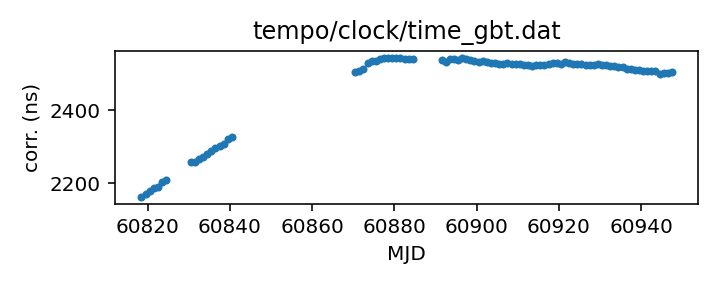
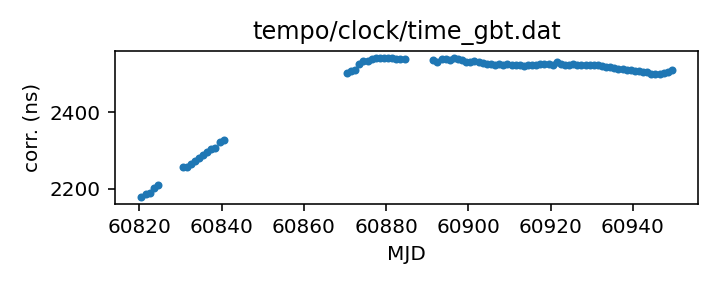
Routine gh-pages update from Github action Thu Oct  2 20:39:44 UTC 2025

diff --git a/status.md b/status.md
@@ -13,18 +13,18 @@ name of each clock file links to a page with more details.
 
 | Name | File | Corrections start | Corrections end | Last check date | Last check result 
 |:--- |:--- | --- | --- | --- |:--- 
-| [GPS to UTC](T2runtime/clock/gps2utc.clk.html) | `T2runtime/clock/gps2utc.clk` | 1993-01-01 MJD 48988.0 | 2025-08-27 MJD 60914.0 | 2025-10-01 | Unchanged 
-| [GPS to UTC (Combined Clock)](T2runtime/clock/gps2utc_cc.clk.html) | `T2runtime/clock/gps2utc_cc.clk` | 1993-01-01 MJD 48988.0 | 2025-08-27 MJD 60914.0 | 2025-10-01 | Unchanged 
-| [GPS to UTC (Corrected)](T2runtime/clock/gps2utc_c0p.clk.html) | `T2runtime/clock/gps2utc_c0p.clk` | 2010-12-29 MJD 55559.0 | 2025-08-27 MJD 60914.0 | 2025-10-01 | Unchanged 
-| [GBT](tempo/clock/time_gbt.dat.html) | `tempo/clock/time_gbt.dat` | 2000-12-31 MJD 51909.5 | 2025-09-29 MJD 60947.5 | 2025-10-01 | Updated 
-| [GBT (TEMPO2 converted from TEMPO)](T2runtime/clock/gbt2gps.clk.html) | `T2runtime/clock/gbt2gps.clk` | 2000-12-31 MJD 51909.5 | 2024-05-18 MJD 60448.5 | 2025-10-01 | **Validation failed** 
+| [GPS to UTC](T2runtime/clock/gps2utc.clk.html) | `T2runtime/clock/gps2utc.clk` | 1993-01-01 MJD 48988.0 | 2025-08-27 MJD 60914.0 | 2025-10-02 | Unchanged 
+| [GPS to UTC (Combined Clock)](T2runtime/clock/gps2utc_cc.clk.html) | `T2runtime/clock/gps2utc_cc.clk` | 1993-01-01 MJD 48988.0 | 2025-08-27 MJD 60914.0 | 2025-10-02 | Unchanged 
+| [GPS to UTC (Corrected)](T2runtime/clock/gps2utc_c0p.clk.html) | `T2runtime/clock/gps2utc_c0p.clk` | 2010-12-29 MJD 55559.0 | 2025-08-27 MJD 60914.0 | 2025-10-02 | Unchanged 
+| [GBT](tempo/clock/time_gbt.dat.html) | `tempo/clock/time_gbt.dat` | 2000-12-31 MJD 51909.5 | 2025-10-01 MJD 60949.5 | 2025-10-02 | Updated 
+| [GBT (TEMPO2 converted from TEMPO)](T2runtime/clock/gbt2gps.clk.html) | `T2runtime/clock/gbt2gps.clk` | 2000-12-31 MJD 51909.5 | 2024-05-18 MJD 60448.5 | 2025-10-02 | **Validation failed** 
 | [Jodrell Bank](T2runtime/clock/jb2gps.clk.html) | `T2runtime/clock/jb2gps.clk` | 2006-10-13 MJD 54021.4 | 2024-11-07 MJD 60621.0 | 2025-09-29 | Unchanged 
 | [Jodrell Bank Roach](T2runtime/clock/jbroach2jb.clk.html) | `T2runtime/clock/jbroach2jb.clk` | 2006-10-13 MJD 54021.4 | 2018-03-20 MJD 58197.6 | 2025-09-29 | Unchanged 
 | [Jodrell Bank DFB](T2runtime/clock/jbdfb2jb.clk.html) | `T2runtime/clock/jbdfb2jb.clk` | 2006-10-13 MJD 54021.4 | 2021-02-22 MJD 59268.0 | 2025-09-29 | Unchanged 
 | [Meerkat (observatory)](T2runtime/clock/mk2utc_observatory.clk.html) | `T2runtime/clock/mk2utc_observatory.clk` | 2019-01-01 MJD 58484.0 | 2025-08-29 MJD 60917.0 | 2025-09-29 | **Validation failed** 
-| [Leap seconds](tempo/clock/leap.sec.html) | `tempo/clock/leap.sec` | 1972-07-01 MJD 41499.0 | 2017-01-01 MJD 57754.0 | 2025-10-01 | Unchanged 
-| [UT1 table](tempo/clock/ut1.dat.html) | `tempo/clock/ut1.dat` | 1973-01-02 MJD 41684.0 | 2026-10-03 MJD 61316.0 | 2025-10-01 | Unchanged 
-| [UT1 table](T2runtime/clock/ut1.dat.html) | `T2runtime/clock/ut1.dat` | 1973-01-02 MJD 41684.0 | 2026-10-03 MJD 61316.0 | 2025-10-01 | Unchanged 
+| [Leap seconds](tempo/clock/leap.sec.html) | `tempo/clock/leap.sec` | 1972-07-01 MJD 41499.0 | 2017-01-01 MJD 57754.0 | 2025-10-02 | Unchanged 
+| [UT1 table](tempo/clock/ut1.dat.html) | `tempo/clock/ut1.dat` | 1973-01-02 MJD 41684.0 | 2026-10-10 MJD 61323.0 | 2025-10-02 | Updated 
+| [UT1 table](T2runtime/clock/ut1.dat.html) | `T2runtime/clock/ut1.dat` | 1973-01-02 MJD 41684.0 | 2026-10-10 MJD 61323.0 | 2025-10-02 | Updated 
 
 
 

diff --git a/T2runtime/clock/gbt2gps.clk.md b/T2runtime/clock/gbt2gps.clk.md
@@ -25,12 +25,11 @@ If questions arise about the conversion, contact Anne Archibald
 | Clock file start | 2000-12-31 MJD 51909.5 |
 | Clock file end | 2024-05-18 MJD 60448.5 |
 | Update interval (days) | 1 |
-| Last update attempt | 2025-10-01 |
+| Last update attempt | 2025-10-02 |
 | Last update result | Validation failed |
 
 Log entries from the last few update attempts:
 ```
-2025-09-22 20:39:59.689 - Validation failed: New version of T2runtime/clock/gbt2gps.clk MJDs differ from old version where they overlap in 8407 places
 2025-09-23 20:40:04.250 - Validation failed: New version of T2runtime/clock/gbt2gps.clk MJDs differ from old version where they overlap in 8407 places
 2025-09-24 20:38:48.026 - Validation failed: New version of T2runtime/clock/gbt2gps.clk MJDs differ from old version where they overlap in 8407 places
 2025-09-25 20:39:39.724 - Validation failed: New version of T2runtime/clock/gbt2gps.clk MJDs differ from old version where they overlap in 8407 places
@@ -40,6 +39,7 @@ Log entries from the last few update attempts:
 2025-09-29 20:37:14.017 - Validation failed: New version of T2runtime/clock/gbt2gps.clk MJDs differ from old version where they overlap in 8407 places
 2025-09-30 20:39:39.071 - Validation failed: New version of T2runtime/clock/gbt2gps.clk MJDs differ from old version where they overlap in 8407 places
 2025-10-01 20:39:45.996 - Validation failed: New version of T2runtime/clock/gbt2gps.clk MJDs differ from old version where they overlap in 8407 places
+2025-10-02 20:39:19.622 - Validation failed: New version of T2runtime/clock/gbt2gps.clk MJDs differ from old version where they overlap in 8407 places
 ```
 [Full log](https://raw.githubusercontent.com/ipta/pulsar-clock-corrections/main/log/T2runtime/clock/gbt2gps.clk.log)
 

diff --git a/tempo/clock/time_gbt.dat.md b/tempo/clock/time_gbt.dat.md
@@ -36,14 +36,13 @@ If questions arise, contact Ryan S. Lynch <rlynch@nrao.edu>.
 | Format | tempo |
 | Bogus last correction | False |
 | Clock file start | 2000-12-31 MJD 51909.5 |
-| Clock file end | 2025-09-29 MJD 60947.5 |
+| Clock file end | 2025-10-01 MJD 60949.5 |
 | Update interval (days) | 1 |
-| Last update attempt | 2025-10-01 |
+| Last update attempt | 2025-10-02 |
 | Last update result | Updated |
 
 Log entries from the last few update attempts:
 ```
-2025-09-22 20:39:59.174 - Updated
 2025-09-23 20:40:04.186 - Updated
 2025-09-24 20:38:47.962 - Updated
 2025-09-25 20:39:39.662 - Updated
@@ -53,12 +52,13 @@ Log entries from the last few update attempts:
 2025-09-29 20:37:13.755 - Updated
 2025-09-30 20:39:39.009 - Updated
 2025-10-01 20:39:45.933 - Updated
+2025-10-02 20:39:19.559 - Updated
 ```
 [Full log](https://raw.githubusercontent.com/ipta/pulsar-clock-corrections/main/log/tempo/clock/time_gbt.dat.log)
 
 Leading comments from clock file:
 
-     -2271.50       0.0        -0.486 1    32766-dec
+     -2271.50       0.0        -0.486 1    32767-dec
 
 
 

diff --git a/T2runtime/clock/ut1.dat.md b/T2runtime/clock/ut1.dat.md
@@ -28,14 +28,13 @@ If there are any questions, contact Anne Archibald
 | File | `T2runtime/clock/ut1.dat` |
 | Authority | observatory |
 | File start | 1973-01-02 MJD 41684.0 |
-| File end | 2026-10-03 MJD 61316.0 |
+| File end | 2026-10-10 MJD 61323.0 |
 | Update interval (days) | 0 |
-| Last update attempt | 2025-10-01 |
-| Last update result | Unchanged |
+| Last update attempt | 2025-10-02 |
+| Last update result | Updated |
 
 Log entries from the last few update attempts:
 ```
-2025-09-22 20:40:34.777 - Unchanged
 2025-09-23 20:40:13.488 - Unchanged
 2025-09-24 20:39:01.622 - Unchanged
 2025-09-25 20:39:48.753 - Updated
@@ -45,5 +44,6 @@ Log entries from the last few update attempts:
 2025-09-29 20:37:32.669 - Unchanged
 2025-09-30 20:39:51.352 - Unchanged
 2025-10-01 20:39:54.471 - Unchanged
+2025-10-02 20:39:27.937 - Updated
 ```
 [Full log](https://raw.githubusercontent.com/ipta/pulsar-clock-corrections/main/log/T2runtime/clock/ut1.dat.log)

diff --git a/tempo/clock/ut1.dat.md b/tempo/clock/ut1.dat.md
@@ -28,14 +28,13 @@ If there are any questions, contact Anne Archibald
 | File | `tempo/clock/ut1.dat` |
 | Authority | observatory |
 | File start | 1973-01-02 MJD 41684.0 |
-| File end | 2026-10-03 MJD 61316.0 |
+| File end | 2026-10-10 MJD 61323.0 |
 | Update interval (days) | 0 |
-| Last update attempt | 2025-10-01 |
-| Last update result | Unchanged |
+| Last update attempt | 2025-10-02 |
+| Last update result | Updated |
 
 Log entries from the last few update attempts:
 ```
-2025-09-22 20:40:34.728 - Unchanged
 2025-09-23 20:40:13.437 - Unchanged
 2025-09-24 20:39:01.573 - Unchanged
 2025-09-25 20:39:48.703 - Updated
@@ -45,5 +44,6 @@ Log entries from the last few update attempts:
 2025-09-29 20:37:32.619 - Unchanged
 2025-09-30 20:39:51.303 - Unchanged
 2025-10-01 20:39:54.422 - Unchanged
+2025-10-02 20:39:27.887 - Updated
 ```
 [Full log](https://raw.githubusercontent.com/ipta/pulsar-clock-corrections/main/log/tempo/clock/ut1.dat.log)

diff --git a/T2runtime/clock/gps2utc_c0p.clk.md b/T2runtime/clock/gps2utc_c0p.clk.md
@@ -30,12 +30,11 @@ about the BIPM's published corrections, contact <tai@bipm.org>.
 | Clock file start | 2010-12-29 MJD 55559.0 |
 | Clock file end | 2025-08-27 MJD 60914.0 |
 | Update interval (days) | 1 |
-| Last update attempt | 2025-10-01 |
+| Last update attempt | 2025-10-02 |
 | Last update result | Unchanged |
 
 Log entries from the last few update attempts:
 ```
-2025-09-22 20:39:58.154 - Unchanged
 2025-09-23 20:40:03.712 - Unchanged
 2025-09-24 20:38:47.064 - Unchanged
 2025-09-25 20:39:39.185 - Unchanged
@@ -45,6 +44,7 @@ Log entries from the last few update attempts:
 2025-09-29 20:37:13.525 - Unchanged
 2025-09-30 20:39:38.239 - Unchanged
 2025-10-01 20:39:45.575 - Unchanged
+2025-10-02 20:39:19.164 - Unchanged
 ```
 [Full log](https://raw.githubusercontent.com/ipta/pulsar-clock-corrections/main/log/T2runtime/clock/gps2utc_c0p.clk.log)
 

diff --git a/T2runtime/clock/gps2utc_cc.clk.md b/T2runtime/clock/gps2utc_cc.clk.md
@@ -29,12 +29,11 @@ about the BIPM's published corrections, contact <tai@bipm.org>.
 | Clock file start | 1993-01-01 MJD 48988.0 |
 | Clock file end | 2025-08-27 MJD 60914.0 |
 | Update interval (days) | 1 |
-| Last update attempt | 2025-10-01 |
+| Last update attempt | 2025-10-02 |
 | Last update result | Unchanged |
 
 Log entries from the last few update attempts:
 ```
-2025-09-22 20:39:58.146 - Unchanged
 2025-09-23 20:40:03.704 - Unchanged
 2025-09-24 20:38:47.056 - Unchanged
 2025-09-25 20:39:39.177 - Unchanged
@@ -44,6 +43,7 @@ Log entries from the last few update attempts:
 2025-09-29 20:37:13.517 - Unchanged
 2025-09-30 20:39:38.231 - Unchanged
 2025-10-01 20:39:45.568 - Unchanged
+2025-10-02 20:39:19.155 - Unchanged
 ```
 [Full log](https://raw.githubusercontent.com/ipta/pulsar-clock-corrections/main/log/T2runtime/clock/gps2utc_cc.clk.log)
 

diff --git a/T2runtime/clock/gps2utc.clk.md b/T2runtime/clock/gps2utc.clk.md
@@ -32,12 +32,11 @@ about the BIPM's published corrections, contact <tai@bipm.org>.
 | Clock file start | 1993-01-01 MJD 48988.0 |
 | Clock file end | 2025-08-27 MJD 60914.0 |
 | Update interval (days) | 1 |
-| Last update attempt | 2025-10-01 |
+| Last update attempt | 2025-10-02 |
 | Last update result | Unchanged |
 
 Log entries from the last few update attempts:
 ```
-2025-09-22 20:39:58.124 - Unchanged
 2025-09-23 20:40:03.682 - Unchanged
 2025-09-24 20:38:47.034 - Unchanged
 2025-09-25 20:39:39.155 - Unchanged
@@ -47,6 +46,7 @@ Log entries from the last few update attempts:
 2025-09-29 20:37:13.495 - Unchanged
 2025-09-30 20:39:38.208 - Unchanged
 2025-10-01 20:39:45.546 - Unchanged
+2025-10-02 20:39:19.133 - Unchanged
 ```
 [Full log](https://raw.githubusercontent.com/ipta/pulsar-clock-corrections/main/log/T2runtime/clock/gps2utc.clk.log)
 

diff --git a/tempo/clock/leap.sec.md b/tempo/clock/leap.sec.md
@@ -21,12 +21,11 @@ If there are any questions, contact Anne Archibald
 | File start | 1972-07-01 MJD 41499.0 |
 | File end | 2017-01-01 MJD 57754.0 |
 | Update interval (days) | 0 |
-| Last update attempt | 2025-10-01 |
+| Last update attempt | 2025-10-02 |
 | Last update result | Unchanged |
 
 Log entries from the last few update attempts:
 ```
-2025-09-22 20:40:22.508 - Unchanged
 2025-09-23 20:40:04.276 - Unchanged
 2025-09-24 20:38:48.052 - Unchanged
 2025-09-25 20:39:39.751 - Unchanged
@@ -36,5 +35,6 @@ Log entries from the last few update attempts:
 2025-09-29 20:37:24.697 - Unchanged
 2025-09-30 20:39:39.099 - Unchanged
 2025-10-01 20:39:46.022 - Unchanged
+2025-10-02 20:39:19.648 - Unchanged
 ```
 [Full log](https://raw.githubusercontent.com/ipta/pulsar-clock-corrections/main/log/tempo/clock/leap.sec.log)
